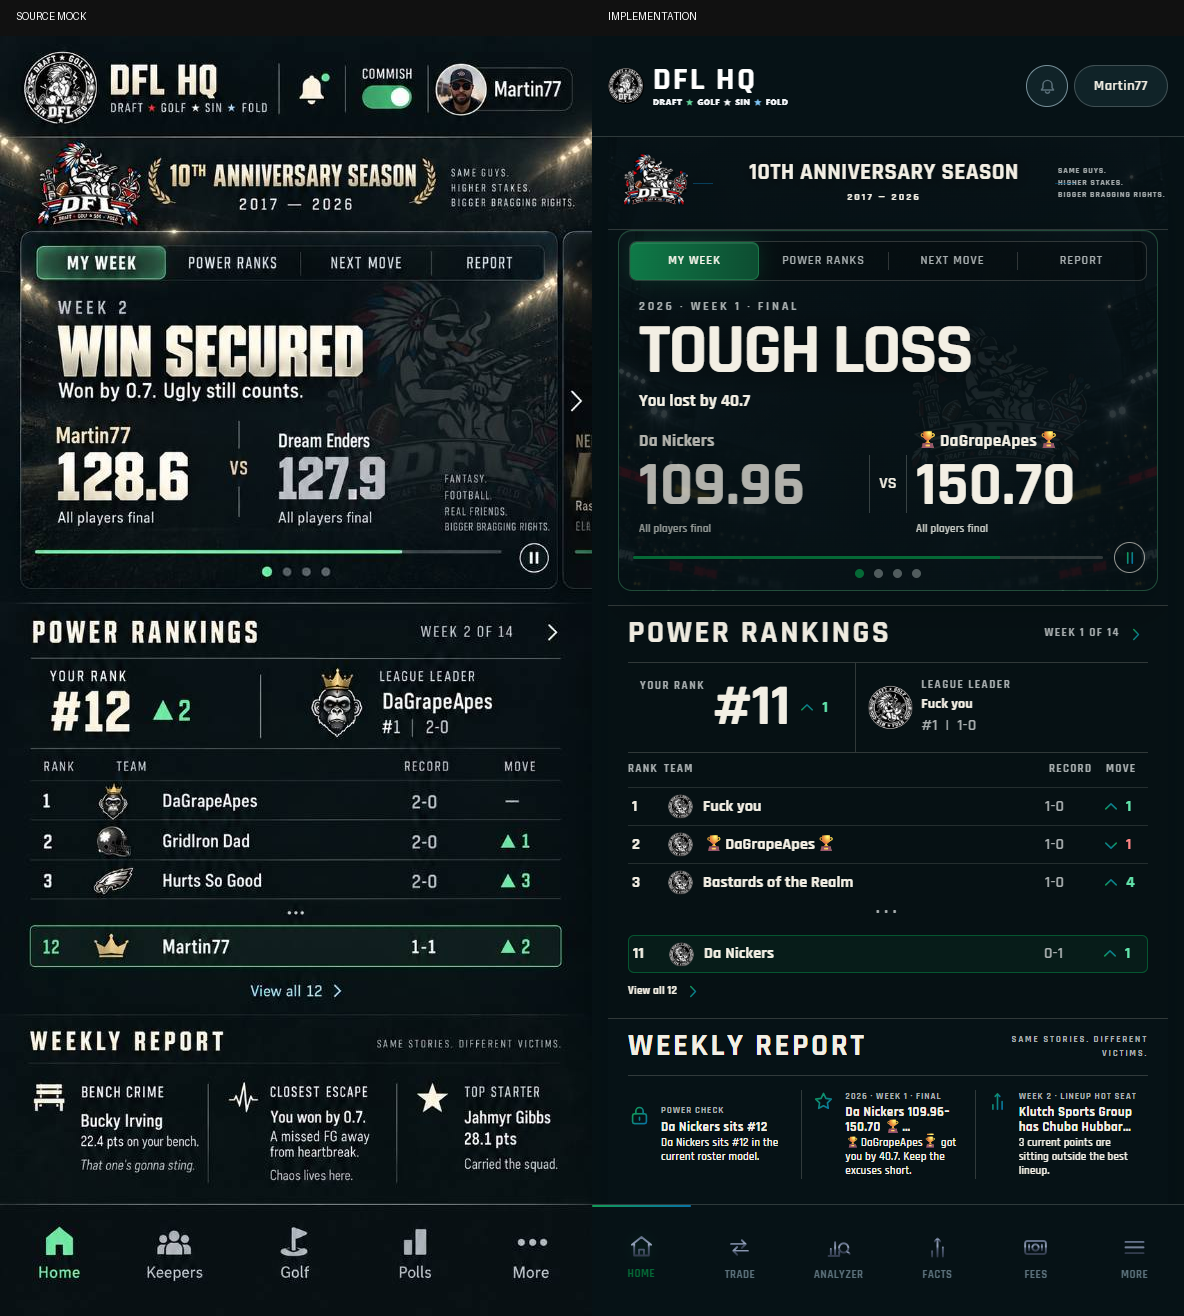
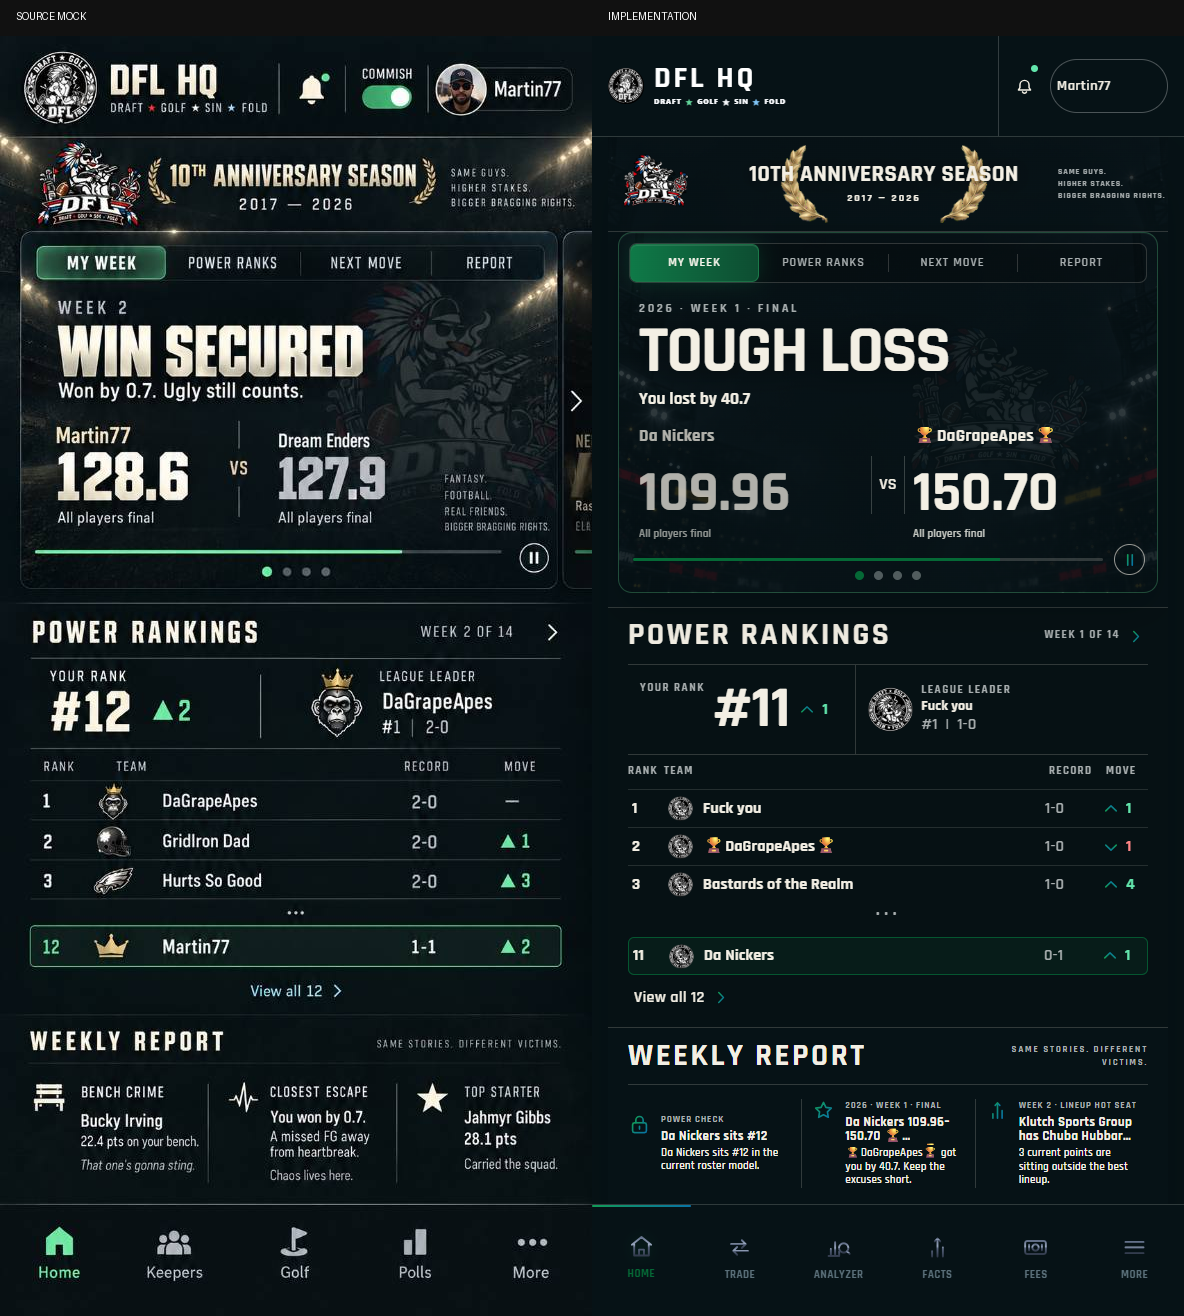
Match Home chrome and spacing to approved mock v1.246.28

diff --git a/css/home.css b/css/home.css
@@ -2074,3 +2074,165 @@
   #home-wrap .home-weekly-digest article { display: block; }
   #home-wrap .home-weekly-digest article > .ico { margin-bottom: 7px; }
 }
+
+/* ---------------------------------------------------------------------
+   FIDELITY PASS 2 — text-safe chrome, real laurels and expandable ranks.
+   --------------------------------------------------------------------- */
+#home-wrap > .dfl-anniv > .dfl-anniv-copy::before,
+#home-wrap > .dfl-anniv > .dfl-anniv-copy::after { display: none; }
+#home-wrap .dfl-anniv-copy { position: relative; min-height: 72px; display: grid; place-content: center; isolation: isolate; }
+#home-wrap .dfl-anniv-copy > strong,
+#home-wrap .dfl-anniv-copy > small { position: relative; z-index: 2; }
+#home-wrap .dfl-anniv-laurels {
+  position: absolute;
+  z-index: 1;
+  inset: 50% auto auto 50%;
+  width: min(420px, 135%);
+  height: 82px;
+  object-fit: contain;
+  transform: translate(-50%, -50%);
+  pointer-events: none;
+}
+
+#home-wrap .home-rankings-card:not(.is-expanded) .is-rank-collapsed { display: none; }
+#home-wrap .home-rankings-card.is-expanded .home-rank-ellipsis { display: none !important; }
+#home-wrap .home-rankings-card.is-expanded ol > li.is-me { margin-top: 0; }
+#home-wrap .home-rank-all {
+  border: 0;
+  background: transparent;
+  font: inherit;
+  cursor: pointer;
+}
+#home-wrap .home-rank-all .ico-sm { transition: transform 220ms ease; }
+#home-wrap .home-rankings-card.is-expanded .home-rank-all .ico-sm { transform: rotate(-90deg); }
+
+#home-wrap .hd-score-side strong,
+#home-wrap .home-rank-leader strong,
+#home-wrap .home-rankings-card ol > li > span strong,
+#home-wrap .home-weekly-digest article :is(small, strong, span) { overflow-wrap: anywhere; }
+#home-wrap .hd-week-copy,
+#home-wrap .hd-scoreboard,
+#home-wrap .home-rank-summary,
+#home-wrap .home-weekly-digest article { min-width: 0; }
+
+.whoami-photo {
+  width: 34px;
+  height: 34px;
+  flex: 0 0 auto;
+  border: 1px solid rgba(255,255,255,.55);
+  border-radius: 50%;
+  object-fit: cover;
+}
+.whoami-photo[hidden] { display: none; }
+
+@media (max-width: 620px) {
+  body:has(.view[data-route="home"]) .topbar-inner { gap: 0; padding-inline: 16px; }
+  body:has(.view[data-route="home"]) .brand-lockup { min-width: 185px; gap: 10px; }
+  body:has(.view[data-route="home"]) .brand-mark { width: 58px; height: 58px; }
+  body:has(.view[data-route="home"]) .brand-word { font-size: 30px; letter-spacing: .1em; }
+  body:has(.view[data-route="home"]) .brand-text .creed { margin-top: 7px; font-size: 7px; letter-spacing: .12em; }
+  body:has(.view[data-route="home"]) .topbar-actions { align-self: stretch; gap: 0; }
+  body:has(.view[data-route="home"]) .notification-bell {
+    width: 52px;
+    height: 100%;
+    flex-basis: 52px;
+    border: 0;
+    border-left: 1px solid rgba(255,255,255,.18);
+    border-radius: 0;
+    background: transparent;
+    color: #f3efe4;
+  }
+  body:has(.view[data-route="home"]) .notification-bell::after {
+    content: "";
+    position: absolute;
+    top: 27px;
+    right: 10px;
+    width: 7px;
+    height: 7px;
+    border: 2px solid #061216;
+    border-radius: 50%;
+    background: #62e5ac;
+  }
+  body:has(.view[data-route="home"]) .topbar-actions .dfl-preview-toggle.is-available {
+    width: 76px;
+    min-height: 100%;
+    display: grid;
+    grid-template-rows: auto auto;
+    place-content: center;
+    justify-items: center;
+    gap: 7px;
+    padding: 0 8px;
+    border: 0;
+    border-left: 1px solid rgba(255,255,255,.18);
+    border-radius: 0;
+    background: transparent;
+  }
+  body:has(.view[data-route="home"]) .dfl-preview-toggle .dfl-preview-label { grid-row: 1; color: #f3efe4; font-size: 10px; }
+  body:has(.view[data-route="home"]) .dfl-preview-toggle .dfl-preview-track { grid-row: 2; width: 46px; height: 24px; }
+  body:has(.view[data-route="home"]) .dfl-preview-toggle .dfl-preview-knob { width: 18px; height: 18px; top: 2px; left: 2px; }
+  body:has(.view[data-route="home"]) .dfl-preview-toggle[data-mode="member"] .dfl-preview-knob,
+  body:has(.view[data-route="home"]) .dfl-preview-toggle[data-mode="locked"] .dfl-preview-knob { transform: translateX(21px); }
+  body:has(.view[data-route="home"]) .whoami {
+    min-width: 118px;
+    max-width: 148px;
+    height: 54px;
+    align-self: center;
+    display: flex;
+    align-items: center;
+    gap: 8px;
+    margin-left: 0;
+    padding: 5px 12px 5px 6px;
+    border-color: rgba(255,255,255,.28);
+    background: transparent;
+    color: #f3efe4;
+    font-size: 14px;
+  }
+  body:has(.view[data-route="home"]) .whoami #whoami-name { min-width: 0; overflow: hidden; text-overflow: ellipsis; }
+  body:has(.view[data-route="home"]) .whoami-photo { width: 40px; height: 40px; }
+
+  #home-wrap > .dfl-anniv { grid-template-columns: 104px minmax(0, 1fr) 112px; padding-inline: 14px; }
+  #home-wrap .dfl-anniv-copy { min-height: 76px; }
+  #home-wrap .dfl-anniv-copy > strong {
+    box-sizing: border-box;
+    max-width: 100%;
+    padding-inline: 36px;
+    font-size: clamp(1.02rem, 3.45vw, 1.28rem);
+    white-space: nowrap;
+    text-align: center;
+    line-height: 1.05;
+  }
+  #home-wrap .dfl-anniv-copy > small { margin-top: 7px; }
+  #home-wrap .dfl-anniv-laurels { width: 330px; height: 78px; }
+
+  #home-wrap .hd-week-copy { padding-right: 8px; }
+  #home-wrap .hd-week-copy h2 { max-width: 100%; font-size: clamp(2.65rem, 11.8vw, 4.15rem); overflow-wrap: normal; }
+  #home-wrap .hd-scoreboard { grid-template-columns: minmax(0, 1fr) 34px minmax(0, 1fr); gap: 8px; }
+  #home-wrap .hd-score-side strong { min-height: 2.15em; display: -webkit-box; -webkit-box-orient: vertical; -webkit-line-clamp: 2; white-space: normal; line-height: 1.05; }
+  #home-wrap .hd-score-side b { font-size: clamp(2.35rem, 10.4vw, 3.55rem); white-space: nowrap; }
+  #home-wrap .home-rank-leader { align-items: center; }
+  #home-wrap .home-rank-leader strong { white-space: normal; line-height: 1.05; }
+  #home-wrap .home-weekly-digest article strong { -webkit-line-clamp: 2; }
+  #home-wrap .home-weekly-digest article span { display: -webkit-box; -webkit-box-orient: vertical; -webkit-line-clamp: 3; overflow: hidden; }
+  #home-wrap .home-weekly-digest article :is(strong, span) { hyphens: none; word-break: normal; overflow-wrap: break-word; }
+}
+
+@media (max-width: 500px) {
+  body:has(.view[data-route="home"]) .brand-text { display: none; }
+  body:has(.view[data-route="home"]) .brand-lockup { min-width: 62px; flex: 0 0 62px; }
+  body:has(.view[data-route="home"]) .topbar-actions { margin-left: auto; }
+  body:has(.view[data-route="home"]) .whoami { min-width: 104px; max-width: 128px; }
+  #home-wrap .dfl-anniv-copy > strong { padding-inline: 34px; }
+  #home-wrap .dfl-anniv-laurels { width: 270px; }
+}
+
+@media (max-width: 410px) {
+  body:has(.view[data-route="home"]) .topbar-inner { padding-inline: 10px; }
+  body:has(.view[data-route="home"]) .brand-lockup { min-width: 50px; flex-basis: 50px; }
+  body:has(.view[data-route="home"]) .brand-mark { width: 46px; height: 46px; }
+  body:has(.view[data-route="home"]) .notification-bell { width: 44px; flex-basis: 44px; }
+  body:has(.view[data-route="home"]) .topbar-actions .dfl-preview-toggle.is-available { width: 68px; }
+  body:has(.view[data-route="home"]) .whoami { min-width: 98px; max-width: 116px; padding-right: 8px; }
+  body:has(.view[data-route="home"]) .whoami-photo { width: 36px; height: 36px; }
+  #home-wrap .dfl-anniv-copy > strong { padding-inline: 20px; }
+  #home-wrap .dfl-anniv-laurels { width: 235px; }
+}

diff --git a/index.html b/index.html
@@ -1,5 +1,5 @@
 <!DOCTYPE html>
-<html lang="en"><head><meta charset="utf-8"><meta name="viewport" content="width=device-width, initial-scale=1, viewport-fit=cover"><meta name="theme-color" content="#0d1117"><meta name="dfl-app-version" content="1.246.27"><title>DFL HQ</title><link rel="manifest" href="manifest.json"><link rel="icon" href="icons/icon-192.png"><link rel="apple-touch-icon" href="icons/apple-touch-icon.png"><meta name="apple-mobile-web-app-capable" content="yes"><meta name="apple-mobile-web-app-status-bar-style" content="black-translucent"><meta name="apple-mobile-web-app-title" content="DFL HQ"><link rel="preload" href="fonts/rajdhani-700.woff2" as="font" type="font/woff2" crossorigin><link rel="stylesheet" href="css/tokens.css"><link rel="stylesheet" href="css/style.css"><link rel="stylesheet" href="css/ui.css"><link rel="stylesheet" href="css/screens.css"><link rel="stylesheet" href="css/marquee.css"><link rel="stylesheet" href="css/stage.css"><link rel="stylesheet" href="css/splash-loading.css"><link rel="stylesheet" href="css/home.css"><link rel="stylesheet" href="css/update-gate.css"><link rel="stylesheet" href="css/power-pulse-system.css?v=1.246.27"></head><body><!-- The icon gradient. An SVG cannot take a CSS gradient the way text can, so the glyphs reference this by id and its two stops are driven by the palette in css/style.css. aria-hidden and zero-sized: it draws nothing itself and must never be read out or take up space. --><svg width="0" height="0" aria-hidden="true" focusable="false" style="position:absolute;pointer-events:none"><defs><linearGradient id="dfl-ico-grad" x1="0" y1="0" x2="1" y2="1"><stop class="dfl-ico-stop-a" offset="0"/><stop class="dfl-ico-stop-b" offset="1"/></linearGradient><linearGradient id="dfl-gold-grad" x1="0" y1="0" x2="1" y2="1"><stop class="dfl-gold-a" offset="0"/><stop class="dfl-gold-b" offset=".45"/><stop class="dfl-gold-c" offset=".55"/><stop class="dfl-gold-d" offset="1"/></linearGradient><linearGradient id="dfl-steel-grad" x1="0" y1="0" x2="0" y2="1"><stop class="dfl-steel-a" offset="0"/><stop class="dfl-steel-b" offset=".42"/><stop class="dfl-steel-c" offset=".56"/><stop class="dfl-steel-d" offset="1"/></linearGradient></defs></svg>
+<html lang="en"><head><meta charset="utf-8"><meta name="viewport" content="width=device-width, initial-scale=1, viewport-fit=cover"><meta name="theme-color" content="#0d1117"><meta name="dfl-app-version" content="1.246.28"><title>DFL HQ</title><link rel="manifest" href="manifest.json"><link rel="icon" href="icons/icon-192.png"><link rel="apple-touch-icon" href="icons/apple-touch-icon.png"><meta name="apple-mobile-web-app-capable" content="yes"><meta name="apple-mobile-web-app-status-bar-style" content="black-translucent"><meta name="apple-mobile-web-app-title" content="DFL HQ"><link rel="preload" href="fonts/rajdhani-700.woff2" as="font" type="font/woff2" crossorigin><link rel="stylesheet" href="css/tokens.css"><link rel="stylesheet" href="css/style.css"><link rel="stylesheet" href="css/ui.css"><link rel="stylesheet" href="css/screens.css"><link rel="stylesheet" href="css/marquee.css"><link rel="stylesheet" href="css/stage.css"><link rel="stylesheet" href="css/splash-loading.css"><link rel="stylesheet" href="css/home.css"><link rel="stylesheet" href="css/update-gate.css"><link rel="stylesheet" href="css/power-pulse-system.css?v=1.246.28"></head><body><!-- The icon gradient. An SVG cannot take a CSS gradient the way text can, so the glyphs reference this by id and its two stops are driven by the palette in css/style.css. aria-hidden and zero-sized: it draws nothing itself and must never be read out or take up space. --><svg width="0" height="0" aria-hidden="true" focusable="false" style="position:absolute;pointer-events:none"><defs><linearGradient id="dfl-ico-grad" x1="0" y1="0" x2="1" y2="1"><stop class="dfl-ico-stop-a" offset="0"/><stop class="dfl-ico-stop-b" offset="1"/></linearGradient><linearGradient id="dfl-gold-grad" x1="0" y1="0" x2="1" y2="1"><stop class="dfl-gold-a" offset="0"/><stop class="dfl-gold-b" offset=".45"/><stop class="dfl-gold-c" offset=".55"/><stop class="dfl-gold-d" offset="1"/></linearGradient><linearGradient id="dfl-steel-grad" x1="0" y1="0" x2="0" y2="1"><stop class="dfl-steel-a" offset="0"/><stop class="dfl-steel-b" offset=".42"/><stop class="dfl-steel-c" offset=".56"/><stop class="dfl-steel-d" offset="1"/></linearGradient></defs></svg>
 <script>
 /* This must stay inline: an external guard could itself be served from the old
    app cache. It makes the HTML, active worker, and JavaScript release agree

diff --git a/js/pages/home.js b/js/pages/home.js
@@ -78,7 +78,7 @@ export function homeRankingsCard(view, members = []) {
   const teamFor = row => view.allTeams?.find(team => String(team.id) === String(row.id));
   const visible = board.rows.slice(0, 3);
   const showFocus = focus && !visible.some(row => String(row.id) === String(focus.id));
-  const row = (item, mine = false) => `<li class="${mine ? "is-me" : ""}">
+  const row = (item, index, mine = false) => `<li class="${mine ? "is-me" : ""} ${index >= 3 && !mine ? "is-rank-collapsed" : ""}">
     <b>${esc(String(item.rank))}</b><img src="${esc(memberPhoto(teamFor(item), members))}" alt="" aria-hidden="true">
     <span><strong>${esc(item.name)}</strong></span><em>${esc(item.record)}</em>${rankMove(item.movement)}
   </li>`;
@@ -89,9 +89,21 @@ export function homeRankingsCard(view, members = []) {
       <div class="home-rank-leader"><img src="${esc(memberPhoto(teamFor(leader), members))}" alt="" aria-hidden="true"><span><small>LEAGUE LEADER</small><strong>${esc(leader.name)}</strong><em>#1&nbsp; | &nbsp;${esc(leader.record)}</em></span></div>
     </div>
     <div class="home-rank-head"><span>RANK</span><span>TEAM</span><span>RECORD</span><span>MOVE</span></div>
-    <ol>${visible.map(item => row(item, String(item.id) === String(focus.id))).join("")}${showFocus ? `<li class="home-rank-ellipsis" aria-hidden="true">•••</li>${row(focus, true)}` : ""}</ol>
-    <a class="home-rank-all" href="#/analyzer">View all ${board.rows.length}<svg class="ico-sm" aria-hidden="true"><use href="#i-chev-right"></use></svg></a>
+    <ol>${board.rows.slice(0, 3).map((item, index) => row(item, index, String(item.id) === String(focus.id))).join("")}${showFocus ? `<li class="home-rank-ellipsis" aria-hidden="true">•••</li>` : ""}${board.rows.slice(3).map((item, offset) => row(item, offset + 3, String(item.id) === String(focus.id))).join("")}</ol>
+    <button class="home-rank-all" type="button" data-home-rank-toggle aria-expanded="false"><span>View all ${board.rows.length}</span><svg class="ico-sm" aria-hidden="true"><use href="#i-chev-right"></use></svg></button>
   </section>`;
+}
+
+function wireHomeRankings(root) {
+  const card = root?.querySelector?.(".home-rankings-card");
+  const toggle = card?.querySelector?.("[data-home-rank-toggle]");
+  if (!card || !toggle) return;
+  toggle.addEventListener("click", () => {
+    const expanded = !card.classList.contains("is-expanded");
+    card.classList.toggle("is-expanded", expanded);
+    toggle.setAttribute("aria-expanded", String(expanded));
+    toggle.querySelector("span").textContent = expanded ? "Show top teams" : `View all ${card.querySelectorAll("ol > li:not(.home-rank-ellipsis)").length}`;
+  });
 }
 
 function digestItem(label, title, detail, icon) {
@@ -522,7 +534,10 @@ export async function render(view) {
       reportSlot.innerHTML = clubhouseCard(clubhouse) || `<div class="hd-empty"><strong>WEEKLY REPORT</strong><p>The full report unlocks when every matchup is final.</p></div>`;
       if (clubhouse?.aftermath?.final) wireClubhouse(reportSlot, clubhouse);
     }
-    if (homeRankingsSlot) homeRankingsSlot.innerHTML = homeRankingsCard(pulse, memberRows);
+    if (homeRankingsSlot) {
+      homeRankingsSlot.innerHTML = homeRankingsCard(pulse, memberRows);
+      wireHomeRankings(homeRankingsSlot);
+    }
     if (homeReportSlot) homeReportSlot.innerHTML = homeWeeklyDigest(clubhouse);
   }).catch((err) => {
     console.warn("clubhouse unavailable", err);
@@ -545,7 +560,7 @@ export function anniversary() {
   if (number < 2 || number % 10 !== 0) return "";
   return `<aside class="dfl-anniv" role="note">
     <img src="icons/crest-512.webp" alt="" aria-hidden="true">
-    <span class="dfl-anniv-copy"><strong>${esc(ordinal(number))} Anniversary Season</strong><small>${LEAGUE_FOUNDED} — ${new Date().getFullYear()}</small></span>
+    <span class="dfl-anniv-copy"><img class="dfl-anniv-laurels" src="assets/anniversary-laurels.webp" alt="" aria-hidden="true"><strong>${esc(ordinal(number))} Anniversary Season</strong><small>${LEAGUE_FOUNDED} — ${new Date().getFullYear()}</small></span>
     <span class="dfl-anniv-tag">Same guys.<br>Higher stakes.<br>Bigger bragging rights.</span>
   </aside>`;
 }

diff --git a/sw.js b/sw.js
@@ -1,8 +1,8 @@
 // DFL HQ service worker
-const CACHE_NAME = "dfl-hq-v1.246.27";
+const CACHE_NAME = "dfl-hq-v1.246.28";
 const CDN_HOSTS = new Set(["cdn.jsdelivr.net","fonts.googleapis.com","fonts.gstatic.com","a.espncdn.com"]);
 const APP_SHELL = [
-  "./","./index.html","./manifest.json","./css/power-pulse-system.css?v=1.246.27",
+  "./","./index.html","./manifest.json","./css/power-pulse-system.css?v=1.246.28",
   "./css/tokens.css","./css/style.css","./css/ui.css","./css/screens.css","./css/sportsbook.css","./js/sportsbook-slip.js","./css/golf.css","./css/home.css","./css/nav-neutral.css","./css/update-gate.css",
   "./js/config.js","./js/app.js","./js/season-nav.js","./js/router.js","./js/ui.js","./js/store.js","./js/supabase.js","./js/members.js","./js/member-preview.js","./js/member-lock.js",
   "./js/performance.js","./js/pages/admin_performance.js",

diff --git a/js/app.js b/js/app.js
@@ -42,6 +42,11 @@ function paintName(){
   const m=currentMember(),g=golfPass();
   if(!whoamiName)return;
   whoamiName.textContent=m?m.display_name:(g?g.name:(getUsername()||"Who are you?"));
+  const button=document.getElementById("whoami");
+  let photo=button?.querySelector(".whoami-photo");
+  if(button&&!photo){photo=document.createElement("img");photo.className="whoami-photo";photo.alt="";photo.hidden=true;button.insertBefore(photo,whoamiName)}
+  const source=m?.profile_image||"";
+  if(photo){photo.hidden=!source;if(source)photo.src=source;else photo.removeAttribute("src")}
 }
 /*
   FOCUS, FOR THE TWO THINGS THAT COVER THE PAGE.

diff --git a/js/pages/home.spec.js b/js/pages/home.spec.js
@@ -28,6 +28,8 @@ describe("Home redesign wiring", () => {
     expect(source).toContain("LEAGUE LEADER");
     expect(source).toContain("home-rank-ellipsis");
     expect(source).toContain("data-home-rankings-slot");
+    expect(source).toContain("data-home-rank-toggle");
+    expect(source).toContain("wireHomeRankings");
   });
 
   it("renders a compact three-column weekly report rail", () => {

diff --git a/design-qa.md b/design-qa.md
@@ -13,9 +13,9 @@
 No actionable P0, P1, or P2 visual mismatches remain.
 
 - Fonts and typography: the implementation uses the app's Rajdhani display face with source-matched condensed headlines, cream body copy, uppercase metadata, and numeric emphasis. Live names and scores wrap or clamp without breaking the composition.
-- Spacing and layout rhythm: the browser measurements align the major source bands: top bar 100px, anniversary ending at 194px, featured card ending at 555px, Power Rankings at 569–983px, Weekly Report at 983–1169px, and the enlarged persistent navigation below.
+- Spacing and layout rhythm: the browser measurements align the major source bands: top bar 101px, anniversary ending at 196px, featured card ending at 557px, Power Rankings at 571–992px, Weekly Report at 992–1178px, and the enlarged persistent navigation below. Text-safe min-width, wrapping, and clamping rules keep long live names and report copy inside their columns.
 - Colors and visual tokens: Home is intentionally locked to the source's black/cream/green broadcast palette so member light themes cannot wash it out. Red is absent from the primary composition except when live movement semantics require a down state.
-- Image quality and assets: the real DFL crest, mark, member profile images, and existing stadium asset are used. The matchup watermark and stadium atmosphere remain subtle enough to preserve text contrast.
+- Image quality and assets: the real DFL crest, mark, member profile images when available, existing stadium asset, and a dedicated transparent gold-laurel asset are used. The matchup watermark and stadium atmosphere remain subtle enough to preserve text contrast.
 - Copy and content: the source hierarchy and labels are preserved while scores, team names, rankings, movement, records, and report stories come from live DFL data.
 
 ## Full-view Comparison Evidence
@@ -25,13 +25,14 @@ No actionable P0, P1, or P2 visual mismatches remain.
 ## Focused Region Comparison Evidence
 
 - Featured card: four tabs, large outcome headline, two-column score treatment, crest watermark, progress rule, pagination dots, and pause control are present and aligned.
-- Power Rankings: header, week context, personal rank, league leader, top three, ellipsis, highlighted personal row, records, movement, and view-all action match the source structure.
+- Power Rankings: header, week context, personal rank, league leader, top three, ellipsis, highlighted personal row, records, and movement match the source structure. The compact state shows the top three plus the signed-in team; the disclosure expands in place to all 12 teams and collapses without navigating away.
 - Weekly Report: three separated highlights, icon rail, compact metadata, stronger titles, and readable two-line live-data handling match the source density.
 
 ## Interaction And Runtime Checks
 
 - Playwright selected My Week, Power Ranks, Next Move, and Report successfully; every tab reported `aria-selected="true"` in turn.
 - The rotation control changed from Pause to Play and preserved its accessible label.
+- The rankings disclosure reported four visible compact rows, 12 expanded rows, and `aria-expanded="true"` after activation.
 - TypeScript, unresolved-name validation, 68 test files / 763 tests, and the production Vite build pass.
 - The only console network responses are the already-known optional `trade_alerts` table 404s; they degrade safely and do not alter or block Home. The table still requires its Supabase migration before trade alerts can activate.
 
@@ -40,7 +41,9 @@ No actionable P0, P1, or P2 visual mismatches remain.
 1. Previous release incorrectly validated Analyzer styling instead of Home against the approved mock. That evidence was discarded.
 2. First correct browser capture exposed the saved light member palette washing out the source design and a profile reminder covering the screen. The reminder was dismissed in the QA harness and Home received an isolated dark broadcast token set.
 3. Second capture aligned the major bands but showed undersized chrome, a hidden anniversary tagline, lower utility content entering the first viewport, and tiny report copy. The top and bottom chrome were resized, the incorrect tagline selector was fixed, the dashboard/report heights were measured to the source, and report copy was shortened and enlarged.
-4. Final browser capture and combined comparison show no remaining P0/P1/P2 fidelity issues.
+4. User review identified the remaining gaps: the anniversary lacked the mock's gold branches, header chrome was underspecified, live wording could collide, and rankings did not expand in place.
+5. A transparent matched laurel pair was added, the title/tagline columns were separated, the Home header received the mock's structured bell/commissioner/profile treatment, live-text constraints were hardened, and rankings gained an accessible 12-team disclosure.
+6. Final browser capture, automated expanded-state evidence, and combined comparison show no remaining P0/P1/P2 fidelity issues.
 
 ## Follow-up Polish
 
